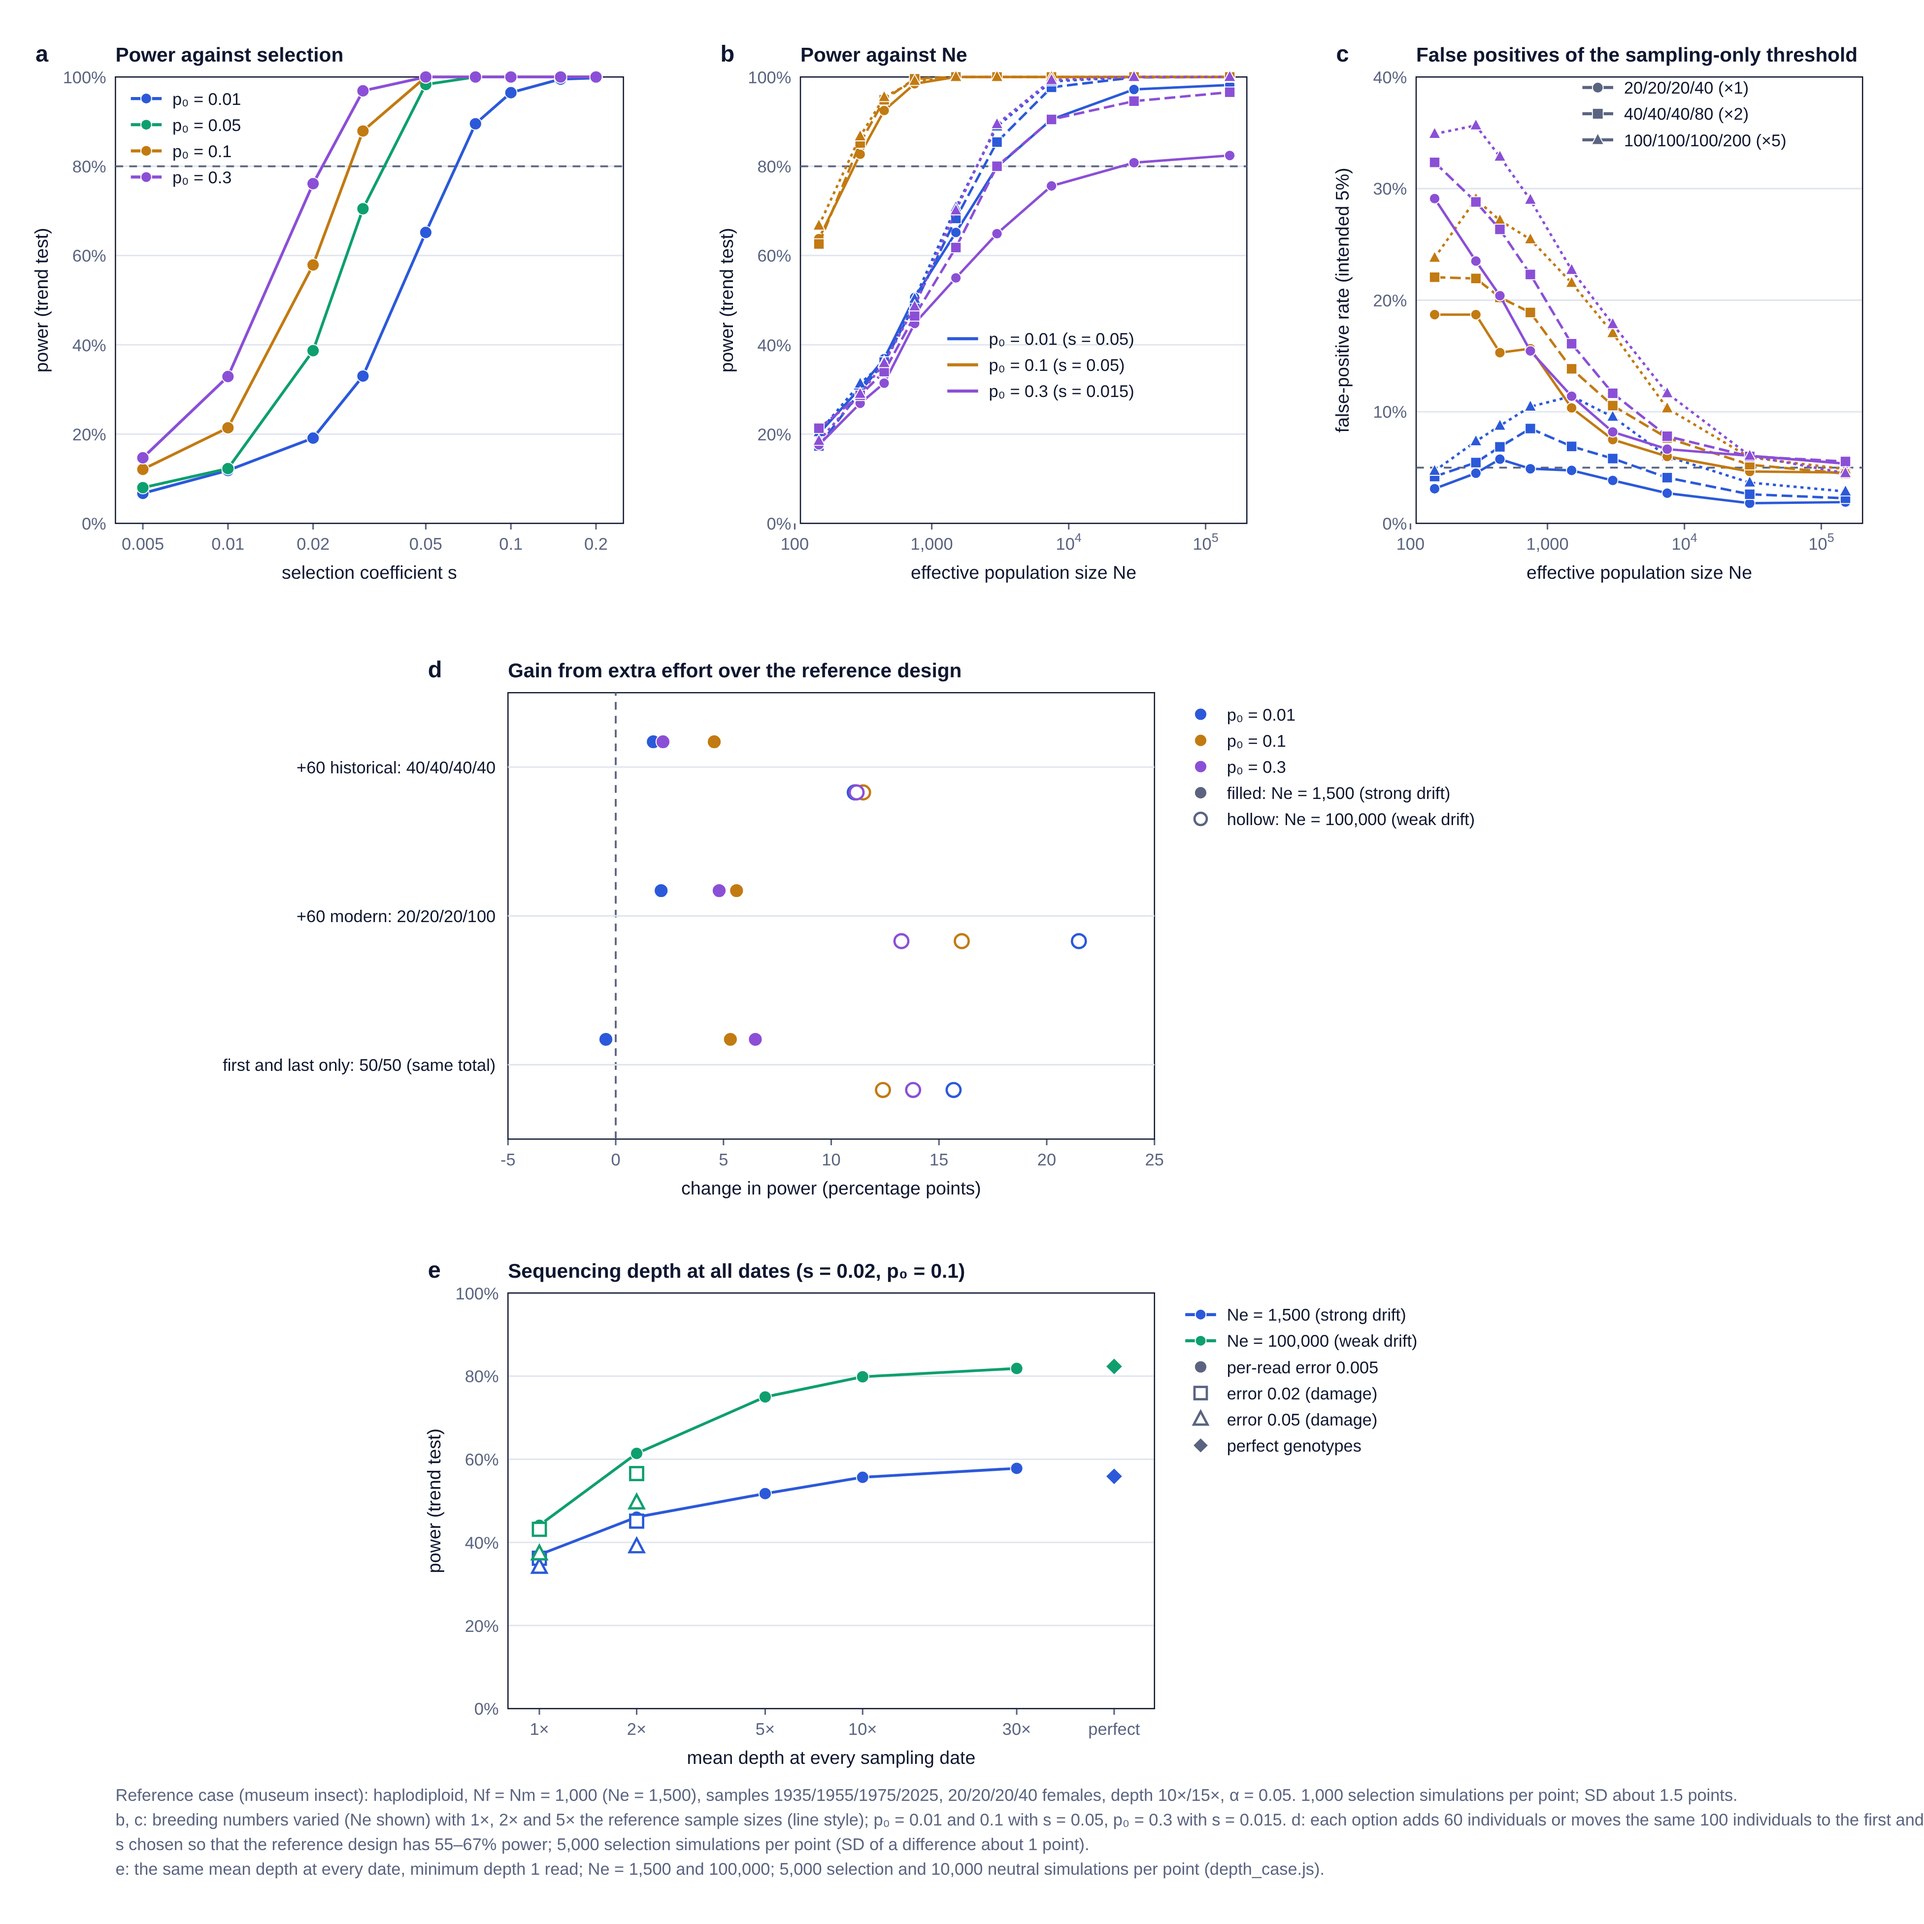
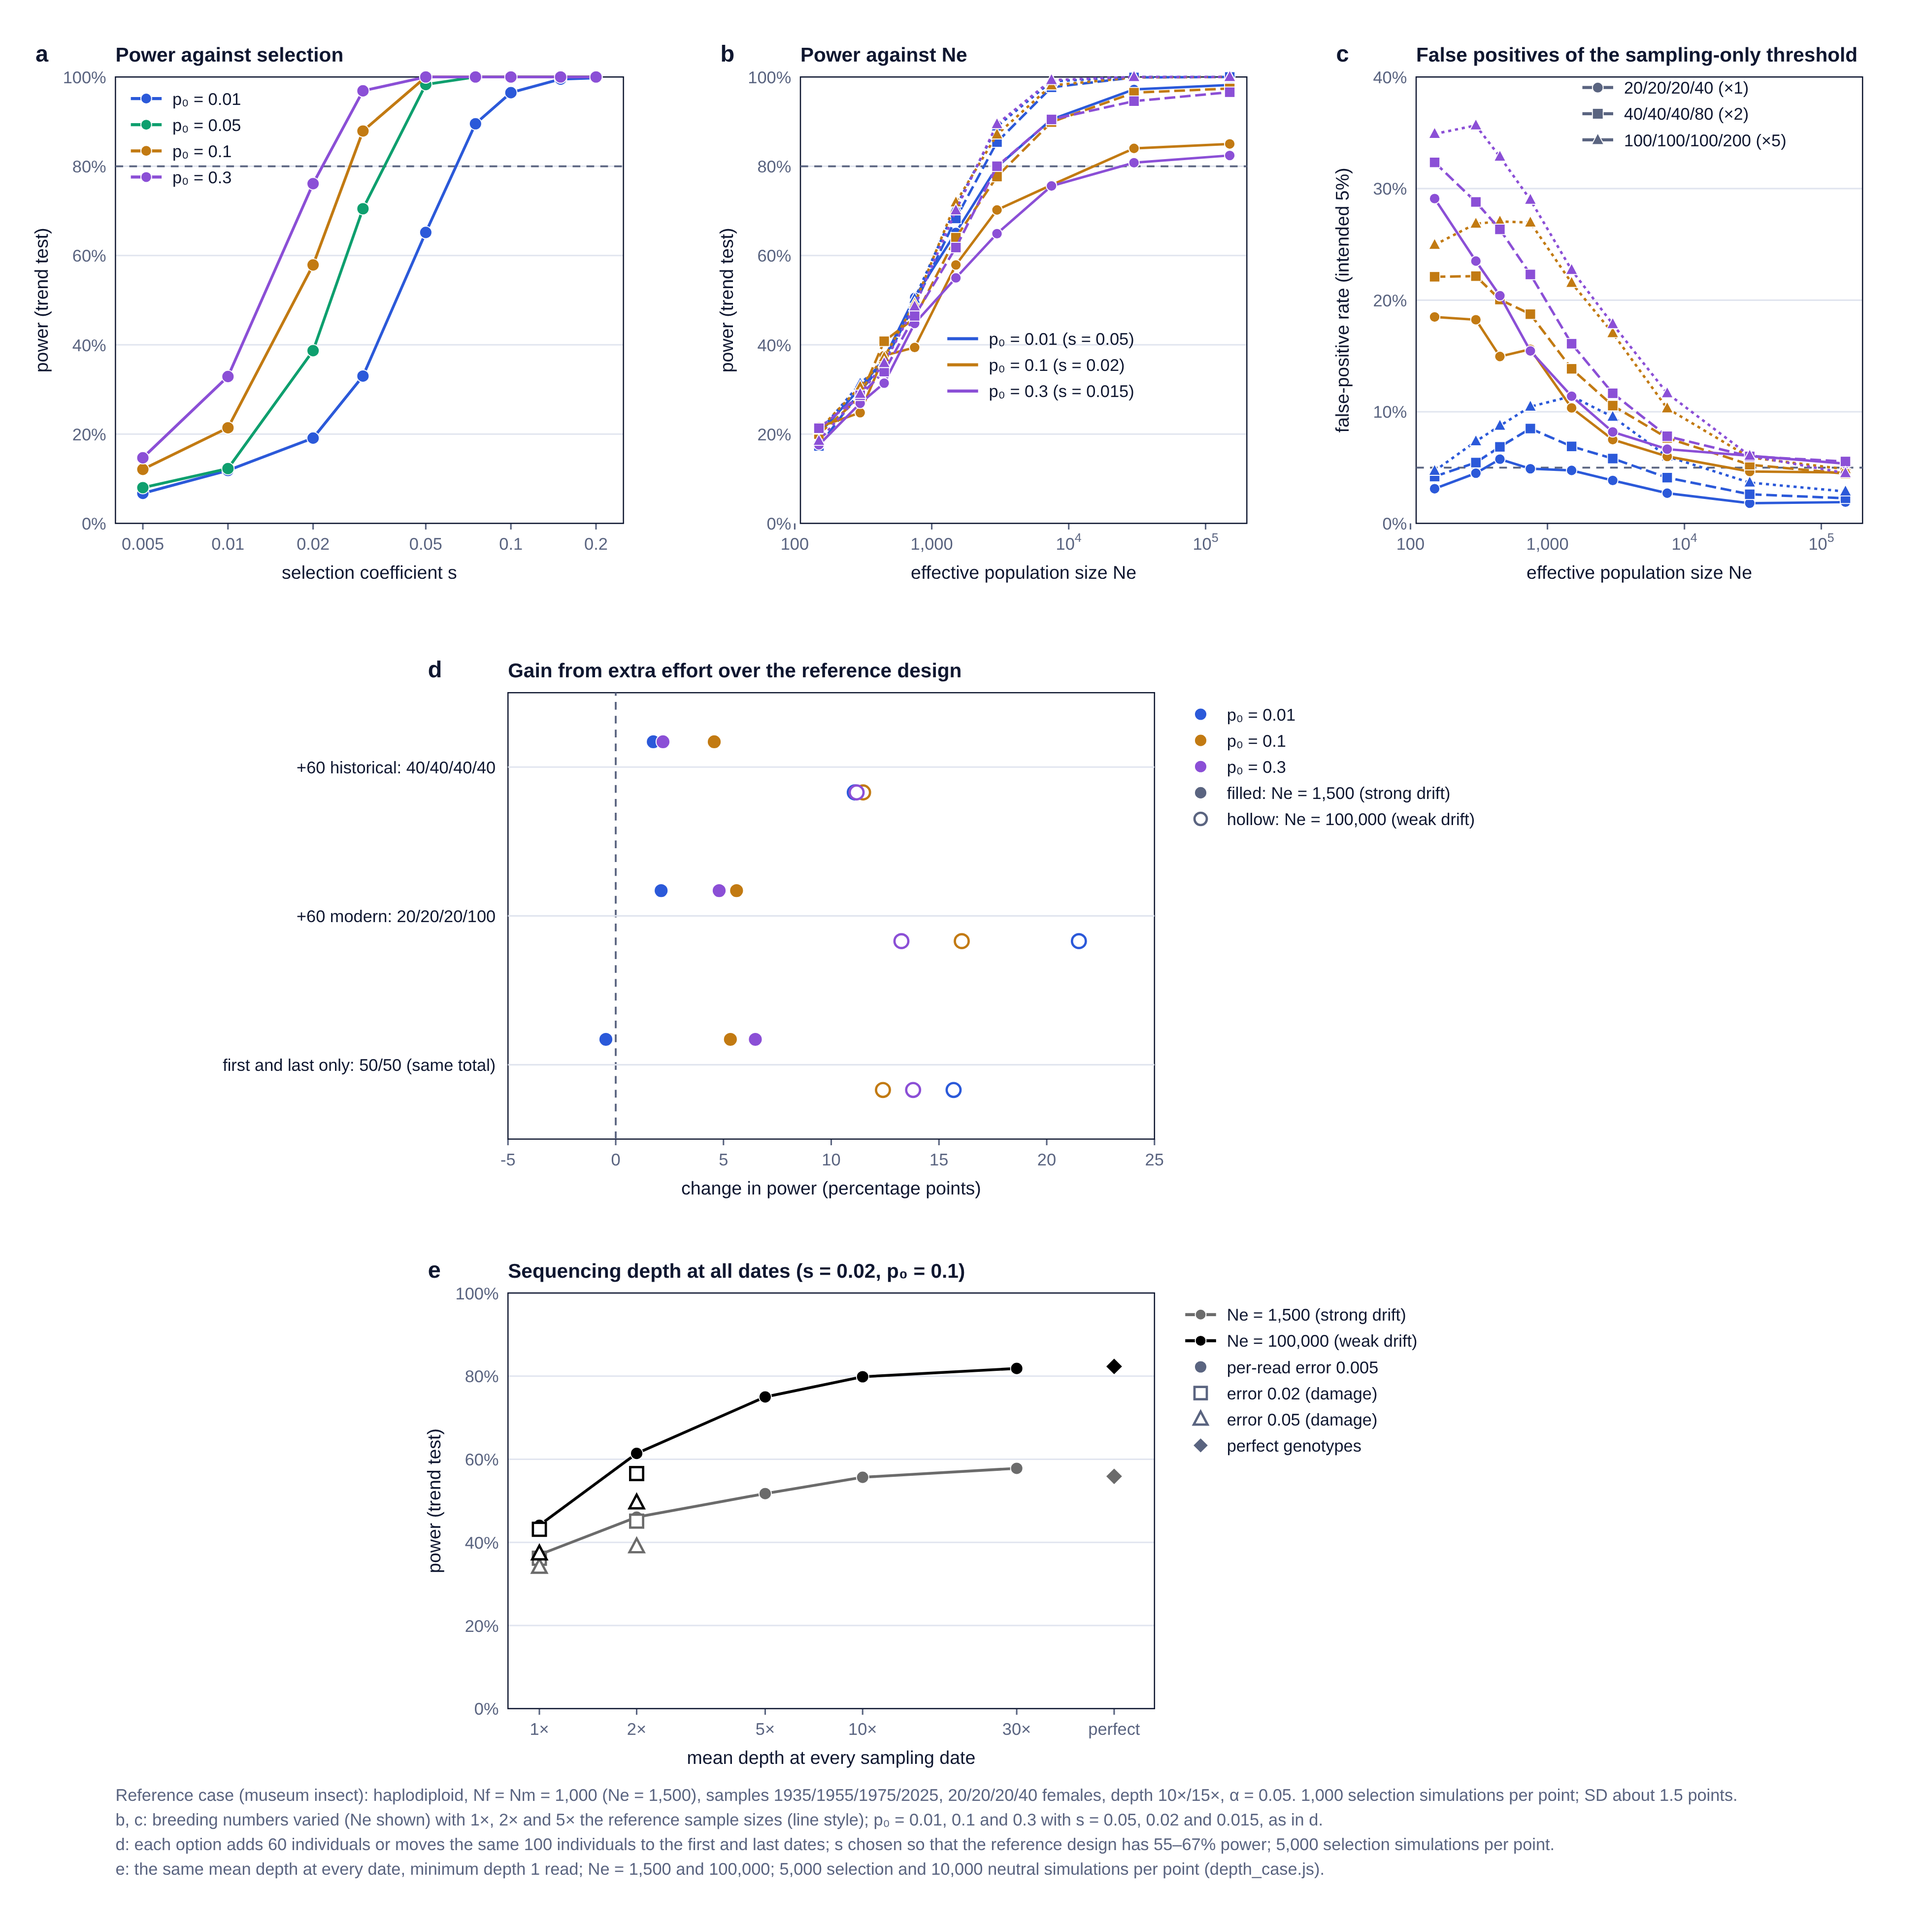
Figure 3: p0 = 0.1 with s = 0.02 in panels b, c (as in d); panel e in grey and black
worked_examples.js C: (p0, s) = (0.01, 0.05), (0.1, 0.02), (0.3, 0.015),
the same as part B at Ne = 1,500 (panel d). bee_ne.tsv regenerated.
Panel e: dark grey (Ne = 1,500) and black (Ne = 100,000) instead of blue
and green, which are p0 colours elsewhere. Footnote rearranged.

(cherry picked from commit 4f3a40f2950a40f9878853845437e57fc6ffcb8b)

diff --git a/worked_examples/worked_examples.js b/worked_examples/worked_examples.js
@@ -47,9 +47,9 @@ if (part === 'B') { // each option adds 60 individuals or doubles historical dep
     console.log([Ne, lab, p0, s, P.n.reduce((a, b) => a + b, 0), ...run(P, {p0, s})].join('\t')); } log('B ' + Ne + ' ' + p0); }
 }
 if (part === 'C') { // power and sampling-only false positives against Ne, for 1x, 2x and 5x the sample sizes, three p0;
-  // p0 = 0.1 with s = 0.05 as before; p0 = 0.01 and 0.3 with the s of part B at Ne = 1,500 (reference power 67% and 55%)
+  // the same (p0, s) as part B at Ne = 1,500 (panel d): reference power 67%, 55% and 55%
   console.log(['p0', 's', 'N_breeding_each_sex', 'Ne', 'het_retained', 'n_scale', 'n', ...H].join('\t'));
-  for (const [p0, s] of [[0.1, 0.05], [0.01, 0.05], [0.3, 0.015]]) for (const k of [1, 2, 5]) { for (const N of [100, 200, 300, 500, 1000, 2000, 5000, 20000, 100000]) {
+  for (const [p0, s] of [[0.1, 0.02], [0.01, 0.05], [0.3, 0.015]]) for (const k of [1, 2, 5]) { for (const N of [100, 200, 300, 500, 1000, 2000, 5000, 20000, 100000]) {
     const n = BEE.n.map(x => x * k), P = Object.assign({}, BEE, {Nf: N, Nm: N, n, p0, s});
     console.log([p0, s, N, Math.round(S.neFor(P)), S.hetRetained(P).toFixed(4), k, n.join('/'), ...run(P)].join('\t')); } log('C p0 ' + p0 + ' x' + k); }
 }

diff --git a/worked_examples/figures.py b/worked_examples/figures.py
@@ -8,6 +8,7 @@ rd = lambda f: list(csv.DictReader(open('worked_examples/' + f), delimiter='\t')
 fl = float
 pct = lambda v: f'{v * 100:.0f}%'
 pal = [COL['blue'], COL['green'], COL['amber'], COL['purple'], COL['red']]
+NECOL = ['#6B6B6B', '#000000']   # panel e: dark grey and black for the two Ne (blue and green are p0 colours)
 P0COL = {'0.01': COL['blue'], '0.05': COL['green'], '0.1': COL['amber'], '0.3': COL['purple']}   # same colour for each p0 in every panel
 
 # ---------- Figure 1: bumblebees ----------
@@ -24,7 +25,7 @@ a.legend([(f'p₀ = {p}', P0COL[p], 'o-') for p in ['0.01', '0.05', '0.1', '0.3'
 
 C = rd('bee_ne.tsv')
 SC = {'1': ('o', None), '2': ('s', '7 3'), '5': ('^', '2 2.5')}   # sample-size factor: marker and line style
-NE_P0 = [('0.01', '0.05'), ('0.1', '0.05'), ('0.3', '0.015')]          # (p0, s) of bee_ne.tsv
+NE_P0 = [('0.01', '0.05'), ('0.1', '0.02'), ('0.3', '0.015')]          # (p0, s) of bee_ne.tsv
 b = Ax(F, 520, 50, 290, 290, (110, 2e5), (0, 1), xlog=True, title='Power against Ne', label='b')
 b.frame([100, 1000, 10000, 100000], [0, .2, .4, .6, .8, 1], 'effective population size Ne', 'power (trend test)', yfmt=pct)
 b.hline(0.8, COL['muted'])
@@ -66,7 +67,7 @@ e = Ax(F, 330, 840, 420, 270, (0.8, 80), (0, 1), xlog=True, title='Sequencing de
 e.frame([1, 2, 5, 10, 30, PERF], [0, .2, .4, .6, .8, 1], 'mean depth at every sampling date', 'power (trend test)',
         xfmt=lambda v: 'perfect' if v == PERF else f'{v:g}×', yfmt=pct)
 for k, Ne in enumerate(['1500', '100000']):
-    col = pal[k]
+    col = NECOL[k]
     r = [x for x in E_ if x['Ne'] == Ne]
     get = lambda lab: next(fl(x['power']) for x in r if x['design'] == lab)
     xs = [1, 2, 5, 10, 30]
@@ -74,14 +75,14 @@ for k, Ne in enumerate(['1500', '100000']):
     e.line(xs, ys, col); e.points(xs, ys, col); e.points([PERF], [get('perfect')], col, 'd', 4.5)
     for err, sh in (('0.02', 's'), ('0.05', '^')):
         e.points([1, 2], [get(f'1x all dates, error {err}'), get(f'2x all dates, error {err}')], col, sh, 4.2, True)
-e.legend([('Ne = 1,500 (strong drift)', pal[0], 'o-'), ('Ne = 100,000 (weak drift)', pal[1], 'o-'),
+e.legend([('Ne = 1,500 (strong drift)', NECOL[0], 'o-'), ('Ne = 100,000 (weak drift)', NECOL[1], 'o-'),
           ('per-read error 0.005', COL['muted'], 'o'), ('error 0.02 (damage)', COL['muted'], 'sh'), ('error 0.05 (damage)', COL['muted'], '^h'),
           ('perfect genotypes', COL['muted'], 'd')], e.x + e.w + 20, e.y + 18)
 F.text(75, 1170, 'Reference case (museum insect): haplodiploid, Nf = Nm = 1,000 (Ne = 1,500), samples 1935/1955/1975/2025, 20/20/20/40 females, depth 10×/15×, α = 0.05. '
        '1,000 selection simulations per point; SD about 1.5 points.', 11, color=COL['muted'])
-F.text(75, 1186, 'b, c: breeding numbers varied (Ne shown) with 1×, 2× and 5× the reference sample sizes (line style); p₀ = 0.01 and 0.1 with s = 0.05, p₀ = 0.3 with s = 0.015. d: each option adds 60 individuals '
-       'or moves the same 100 individuals to the first and last dates;', 11, color=COL['muted'])
-F.text(75, 1202, 's chosen so that the reference design has 55–67% power; 5,000 selection simulations per point (SD of a difference about 1 point).', 11, color=COL['muted'])
+F.text(75, 1186, 'b, c: breeding numbers varied (Ne shown) with 1×, 2× and 5× the reference sample sizes (line style); p₀ = 0.01, 0.1 and 0.3 with s = 0.05, 0.02 and 0.015, as in d.', 11, color=COL['muted'])
+F.text(75, 1202, 'd: each option adds 60 individuals or moves the same 100 individuals to the first and last dates; s chosen so that the reference design has 55–67% power; '
+       '5,000 selection simulations per point.', 11, color=COL['muted'])
 F.text(75, 1218, 'e: the same mean depth at every date, minimum depth 1 read; Ne = 1,500 and 100,000; 5,000 selection and 10,000 neutral simulations per point (depth_case.js).', 11, color=COL['muted'])
 print('bumblebees.svg', F.save('worked_examples/bumblebees.svg'))
 
